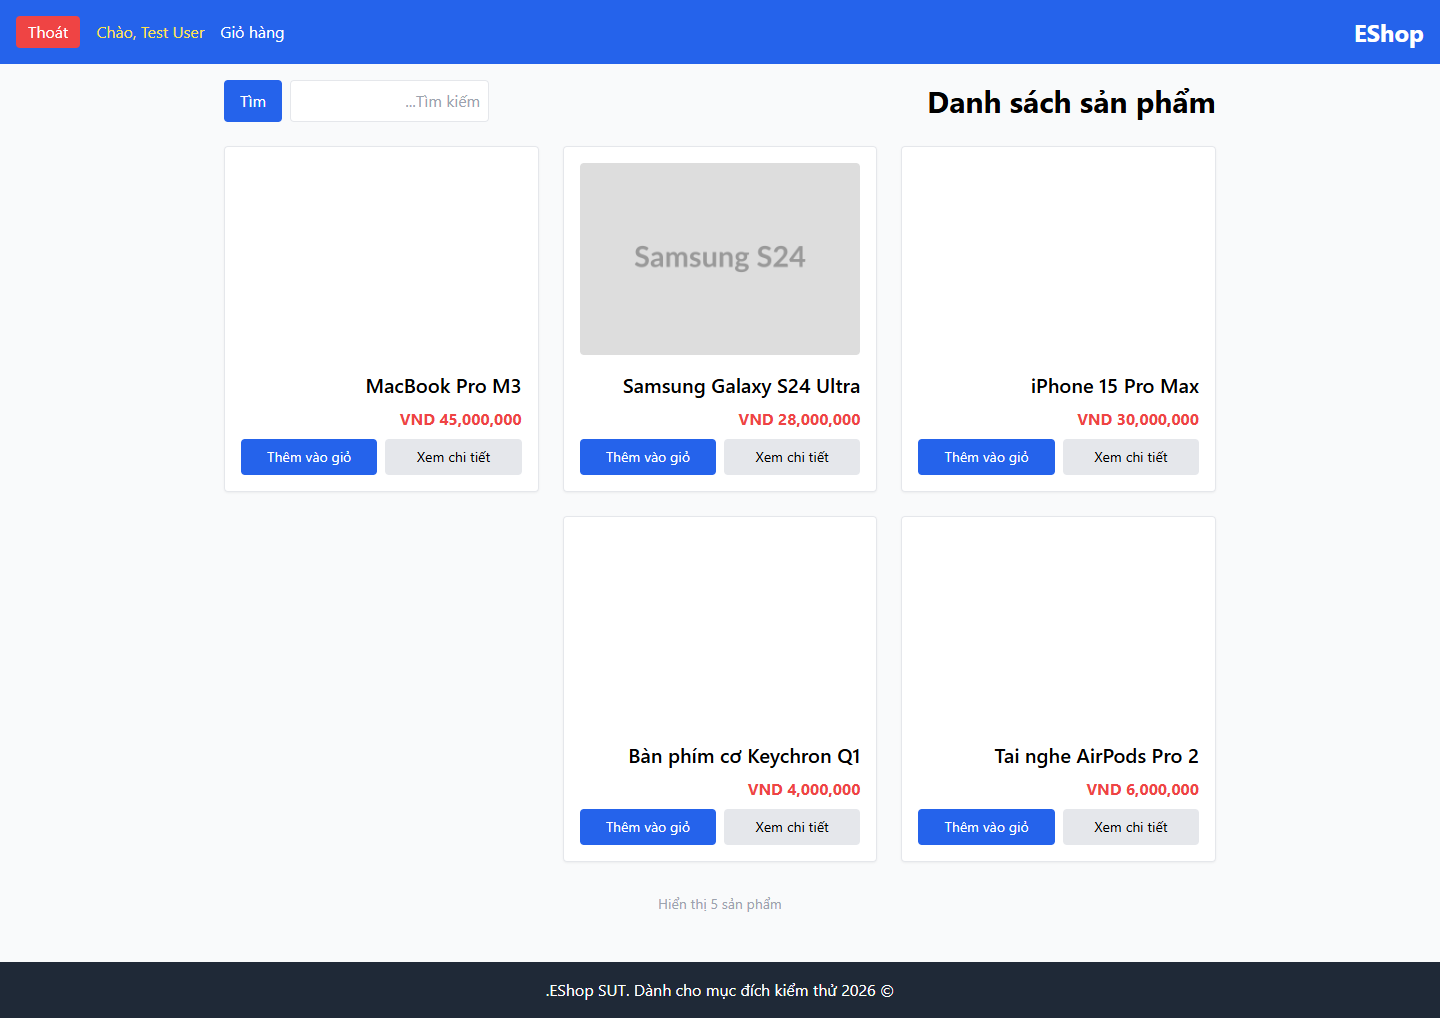
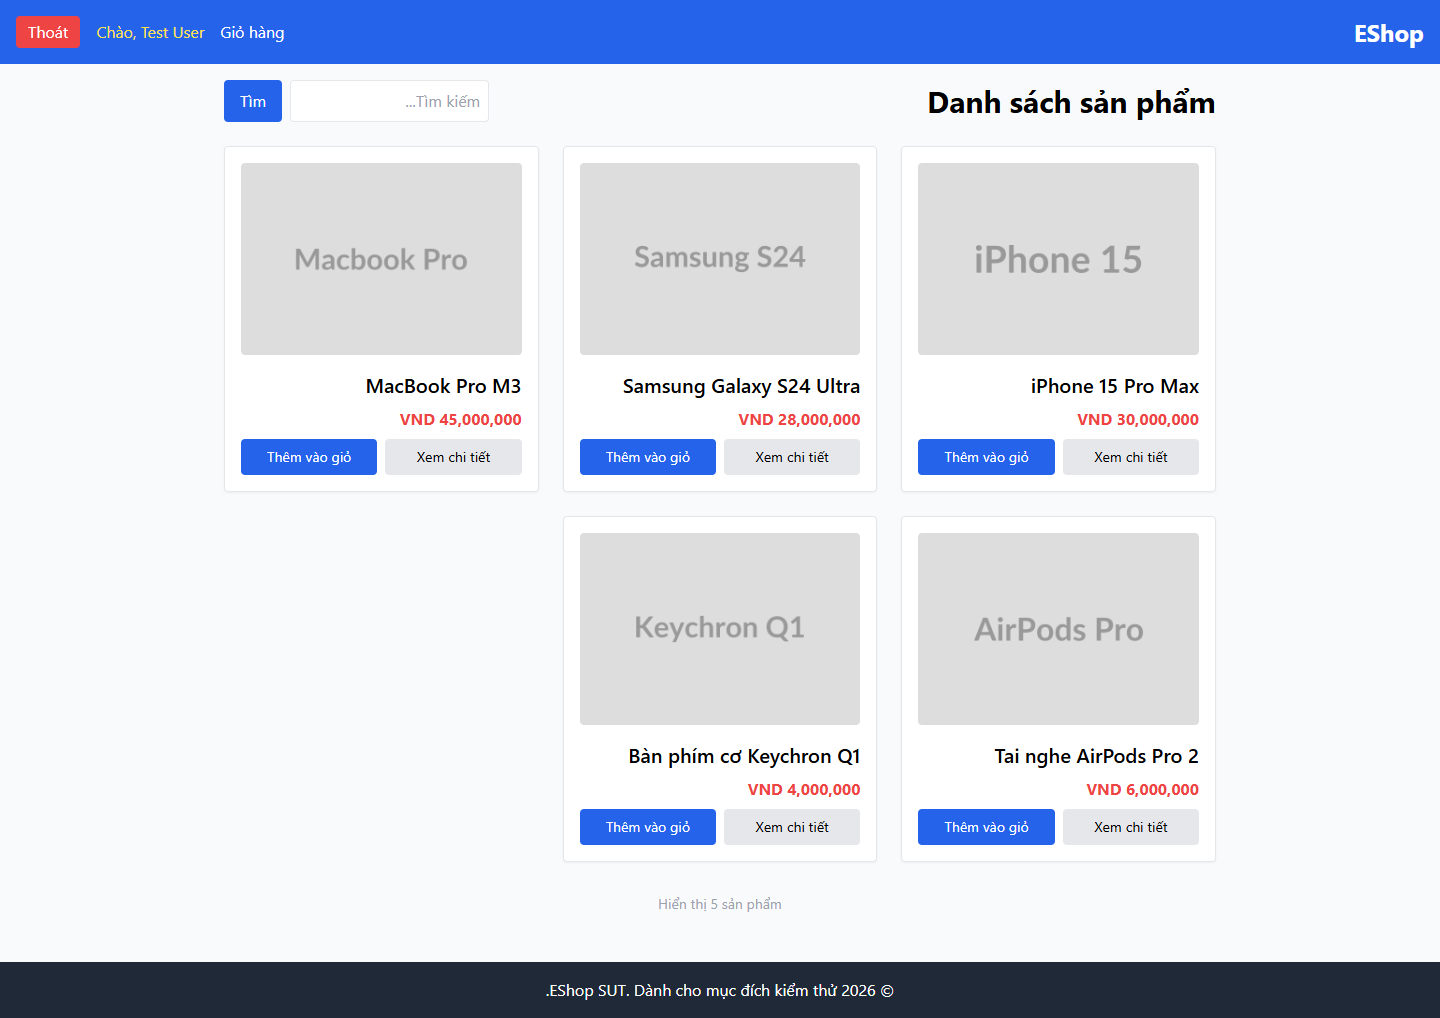
Expand HW03 checklist with cart state requirements

Changed region(s): [[0.375, 0.5177, 0.8438, 0.7308], [0.625, 0.1523, 0.8438, 0.3654], [0.1562, 0.1523, 0.375, 0.3654]]

diff --git a/HW3/HW/submission/task1-gui-checklist/gui-checklist.md b/HW3/HW/submission/task1-gui-checklist/gui-checklist.md
@@ -4,11 +4,11 @@
 > `Student-review candidate` must be reviewed, accepted/reworded, and owned by
 > the student before submission.
 
-- Executed at: 2026-07-27T18:03:08.372Z
+- Executed at: 2026-07-27T18:15:13.508Z
 - Browser: Chromium 150.0.4078.99
-- Total: 60
+- Total: 63
 - Passed: 20
-- Failed: 40
+- Failed: 43
 
 | ID | Screen(s) | Aspect | Checklist item | Expected result | Source | Why AI missed it | Status | Notes | Evidence |
 |---|---|---|---|---|---|---|---|---|---|
@@ -72,3 +72,6 @@
 | GUI-058 | Product Detail | IA-04 | The first add-to-cart activation changes cart state and gives feedback. | A single click adds the item and produces immediate confirmation. | Student-review candidate | This defect depends on the SUT's unusual first-click behavior and cannot be inferred from a generic checklist. | Failed | The first activation is ignored and gives no feedback. | evidence/first-click-cart.png |
 | GUI-059 | Home, Cart | IA-04 | Adding the same product twice consolidates the row. | One cart row remains and its quantity increases to 2. | Student-review candidate | The AI did not inspect the app-specific CartContext state update strategy. | Failed | Adding the same product twice creates duplicate rows. | evidence/cart-duplicate-items.png |
 | GUI-060 | Checkout → Cart | IA-04 | Successful checkout clears the cart. | After a successful checkout, Cart shows the empty state. | Student-review candidate | The AI checked the success message in isolation and missed the downstream cart state. | Failed | Successful checkout does not clear the in-memory cart. | evidence/cart-after-checkout.png |
+| GUI-061 | Cart | IA-04 | Removing a cart item requires confirmation. | A confirmation dialog appears before the item is removed. | AI draft |  | Failed | Remove deletes immediately without a confirmation dialog. | evidence/cart-filled.png |
+| GUI-062 | Empty Cart | IA-04 | Empty Cart shows a friendly message and illustration. | The empty state contains both explanatory text and an icon/image. | AI draft |  | Failed | The empty Cart has text but no required illustration. | evidence/cart-empty.png |
+| GUI-063 | Cart | IA-04 | Cart total uses the exact required label. | The summary label is Tổng cộng, not Tổng tạm tính. | AI draft |  | Failed | Cart uses Tổng tạm tính instead of the required Tổng cộng. | evidence/cart-filled.png |

diff --git a/HW3/HW/submission/report/main-report.md b/HW3/HW/submission/report/main-report.md
@@ -49,7 +49,7 @@ HW03. No participant data or results have been fabricated.
 
 ## 2. AI-first and human-review method
 
-Codex produced a 48-item initial checklist from the assignment and SUT
+Codex produced a 51-item initial checklist from the assignment and SUT
 requirements. Twelve additional items were prepared as `Student-review
 candidate`, covering dark mode, RTL, reflow, target size, assistive-technology
 feedback, search injection, network/not-found states, and cross-screen state.
@@ -97,8 +97,8 @@ port 3000 were redirected only inside Playwright test contexts.
 | IA-01 | 16 | 7 | 9 |
 | IA-02 | 20 | 5 | 15 |
 | IA-03 | 14 | 7 | 7 |
-| IA-04 | 10 | 1 | 9 |
-| **Total** | **60** | **20** | **40** |
+| IA-04 | 13 | 1 | 12 |
+| **Total** | **63** | **20** | **43** |
 
 The full checklist, notes, and evidence links are in:
 
@@ -119,6 +119,8 @@ descriptions:
 - The first Product Detail add-to-cart activation is ignored.
 - Adding the same Home product twice creates duplicate rows instead of increasing
   quantity.
+- Removing a cart row has no confirmation dialog, the empty Cart has no
+  illustration, and the summary uses “Tổng tạm tính” instead of “Tổng cộng”.
 - Cart state is lost after reload and remains after a simulated successful
   Checkout.
 - Home search feedback creates an HTML element from supplied markup.

diff --git a/HW3/HW/submission/task1-gui-checklist/student-bug-issue-index.md b/HW3/HW/submission/task1-gui-checklist/student-bug-issue-index.md
@@ -16,7 +16,7 @@ attach the referenced screenshot, create the GitHub issue, and paste its URL.
 | BG-07 | GUI-048, GUI-055, GUI-056 | `home-network-error.png`, `product-not-found.png` | [ ] | TODO |
 | BG-08 | GUI-053 | `product-desktop.png`, `checkout.png` | [ ] | TODO |
 | BG-09 | GUI-054 | `search-injection.png` | [ ] | TODO |
-| BG-10 | GUI-057, GUI-058, GUI-059, GUI-060 | `first-click-cart.png`, `cart-duplicate-items.png`, `cart-after-checkout.png` | [ ] | TODO |
+| BG-10 | GUI-057, GUI-058, GUI-059, GUI-060, GUI-061, GUI-062, GUI-063 | `first-click-cart.png`, `cart-duplicate-items.png`, `cart-after-checkout.png`, `cart-empty.png`, `cart-filled.png` | [ ] | TODO |
 
 Not every Failed checklist row necessarily becomes a distinct defect. Dark mode,
 RTL support, or other enhancement checks must be compared with the SUT

diff --git a/HW3/HW/submission/README.md b/HW3/HW/submission/README.md
@@ -16,9 +16,9 @@
 |---|---:|
 | Screens covered by GUI checklist | 5 primary screens |
 | End-to-end flow selected | 1 |
-| GUI checklist items designed/executed | 60 / 60 |
+| GUI checklist items designed/executed | 63 / 63 |
 | GUI Passed | 20 |
-| GUI Failed | 40 |
+| GUI Failed | 43 |
 | Candidate defect groups awaiting student-written issues | 10 |
 | Real usability participants completed | 0 / 7 |
 | Pilot completed | 0 / 1 |
